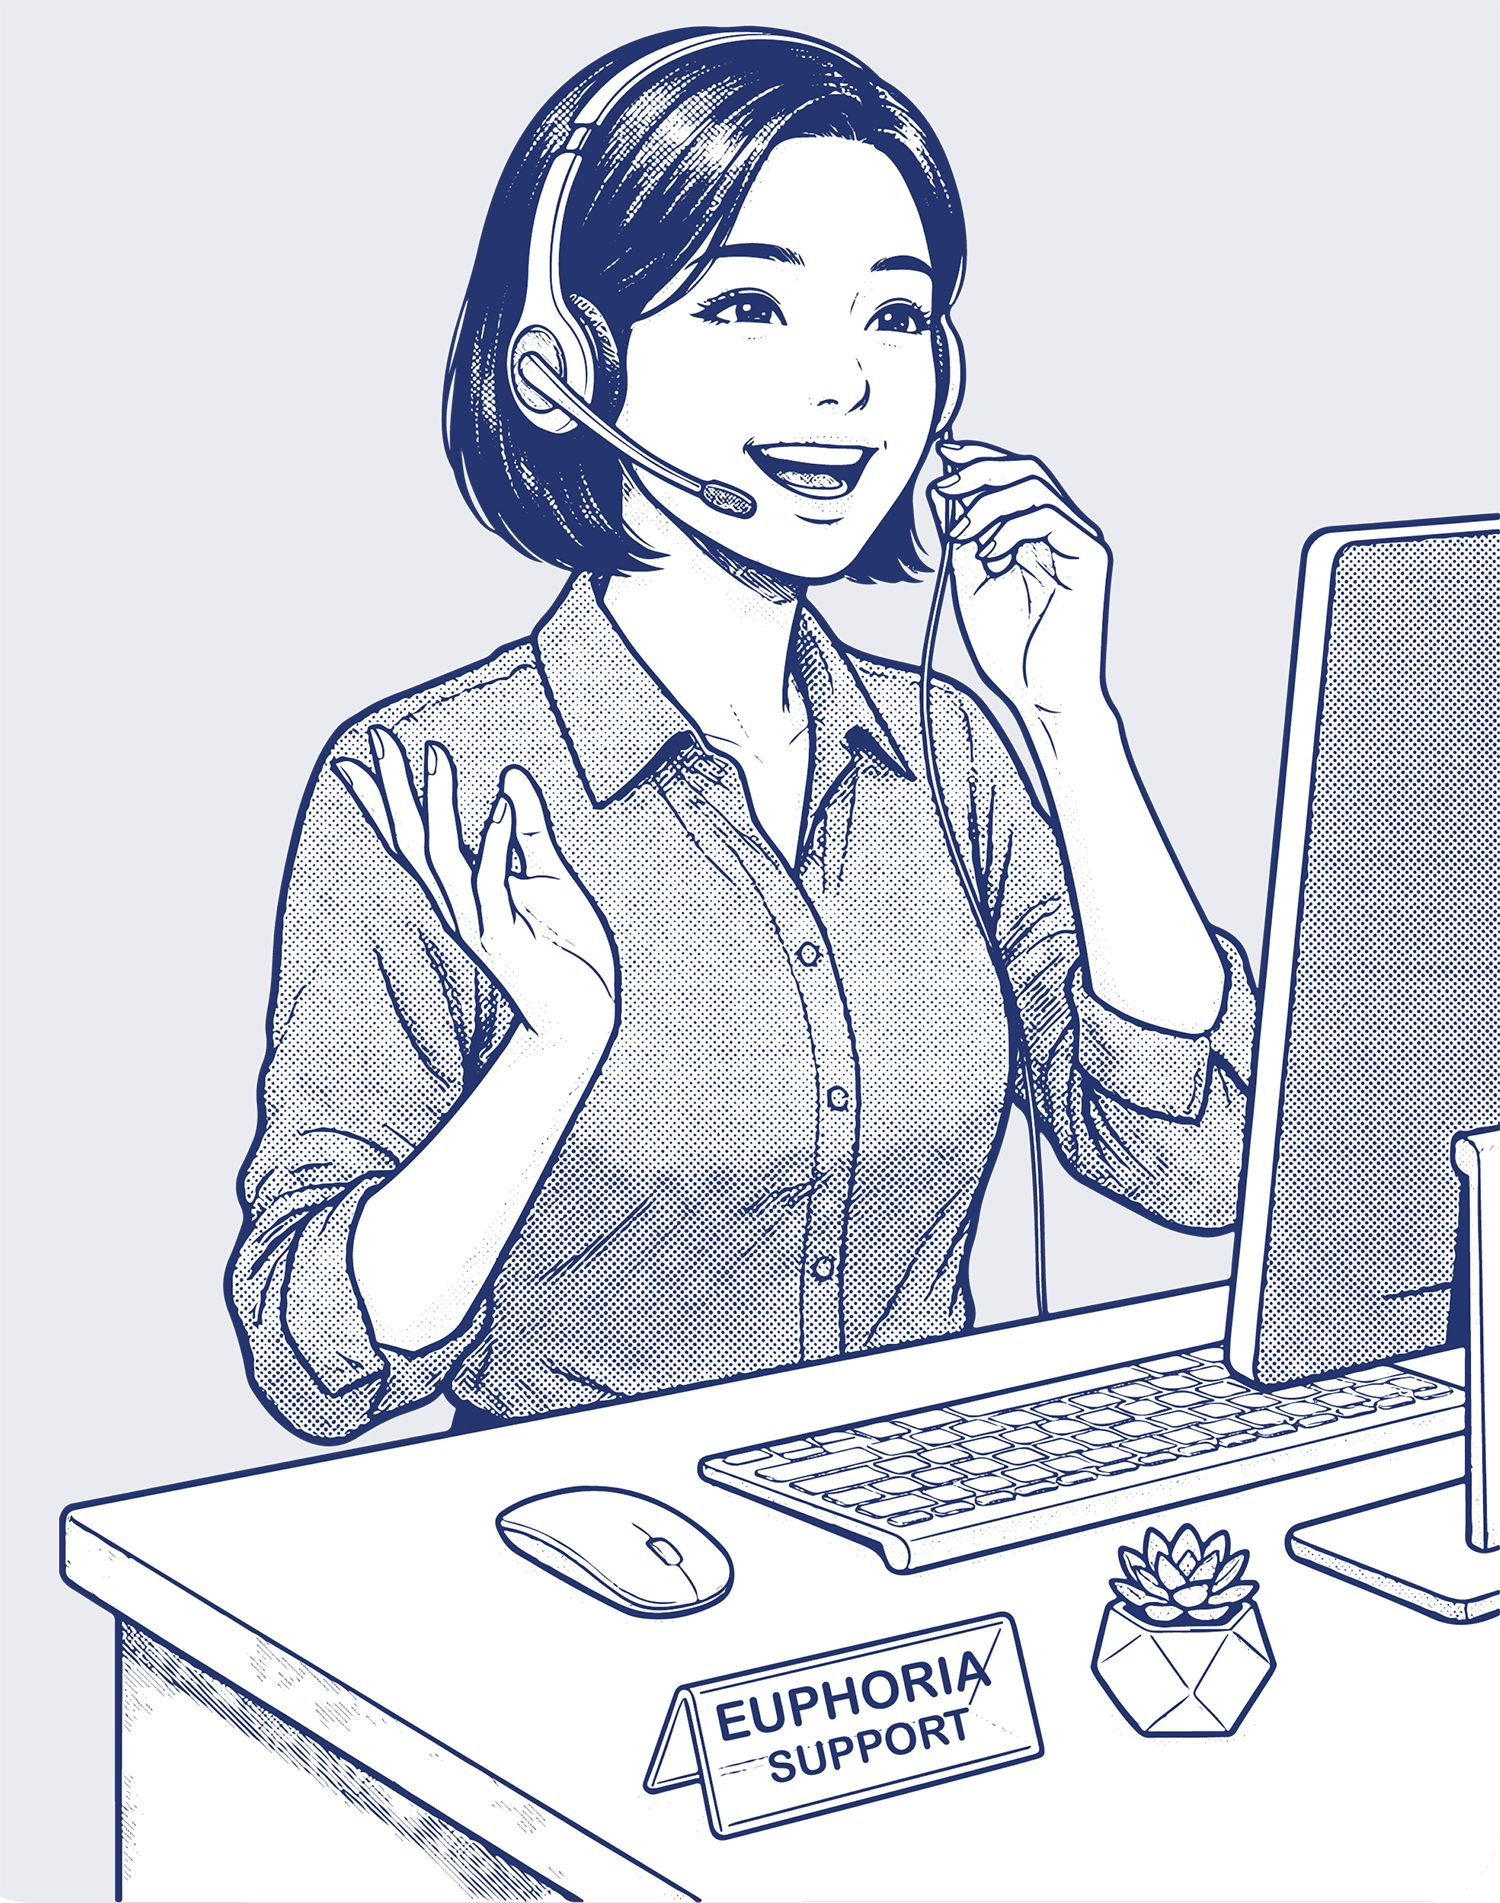
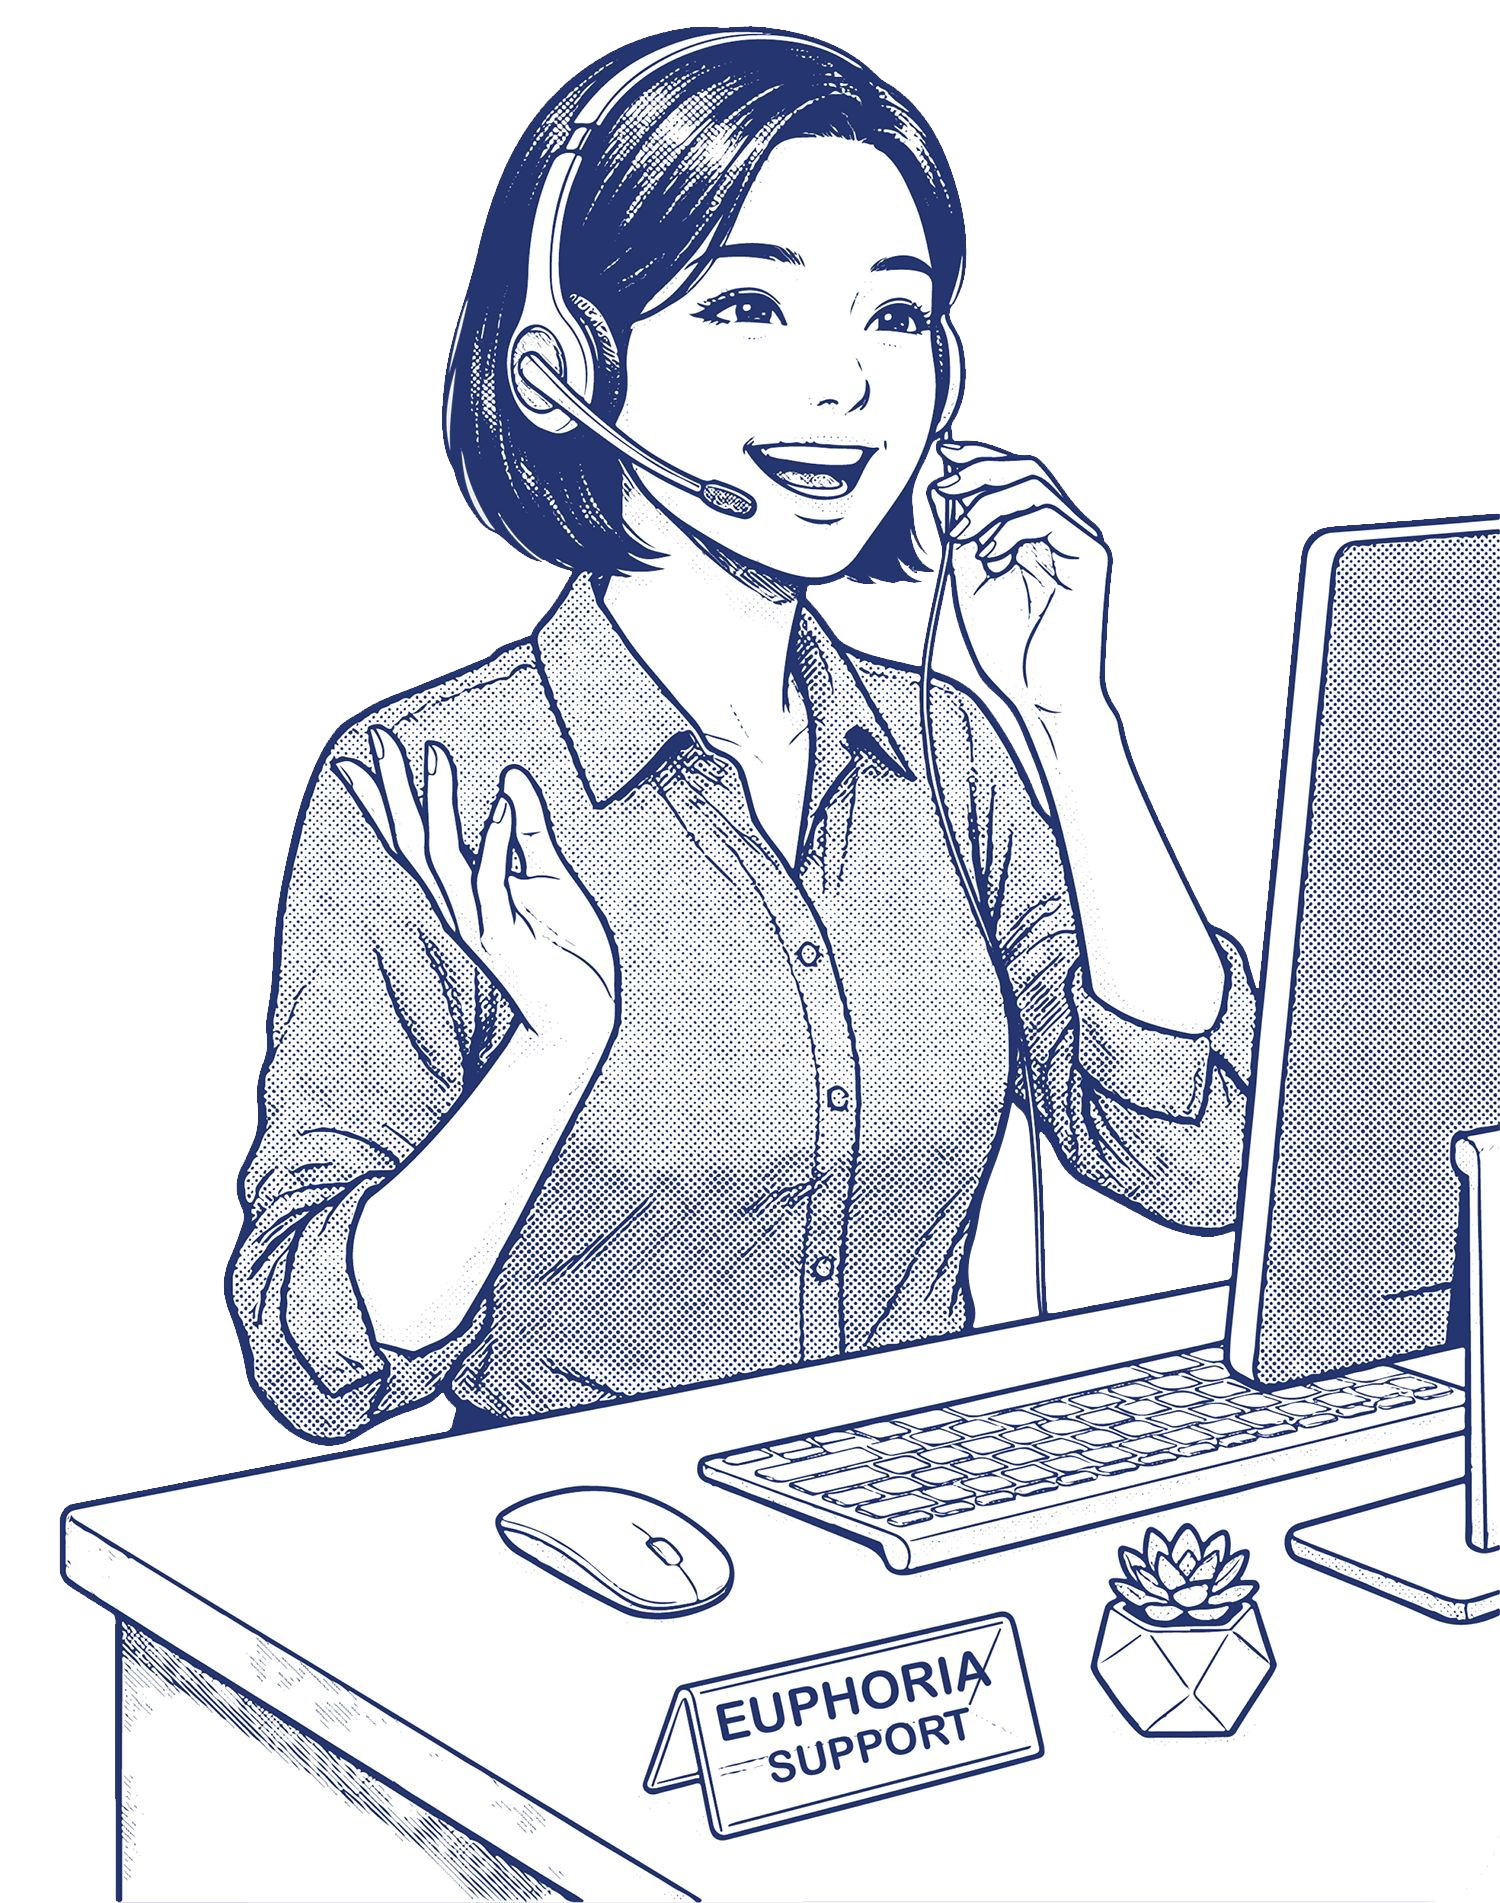
update contact image

diff --git a/contact.php b/contact.php
@@ -176,14 +176,16 @@ include_once('elements/header.php');
 
     /* ── Left image panel ── */
     .image-panel {
-        border-radius: 16px;
+        border-radius: 25px;
         overflow: hidden;
         position: relative;
-        min-height: 590px;
+        min-height: 700px;
         background: url('assets/img//background/Contact-us.png');
-        background-size: contain;
+        background-size: cover;
         background-position: center;
         background-repeat: no-repeat;
+        background-color: #fff;
+        border: 1px solid #ccc;
     }
 
     .image-overlay {
